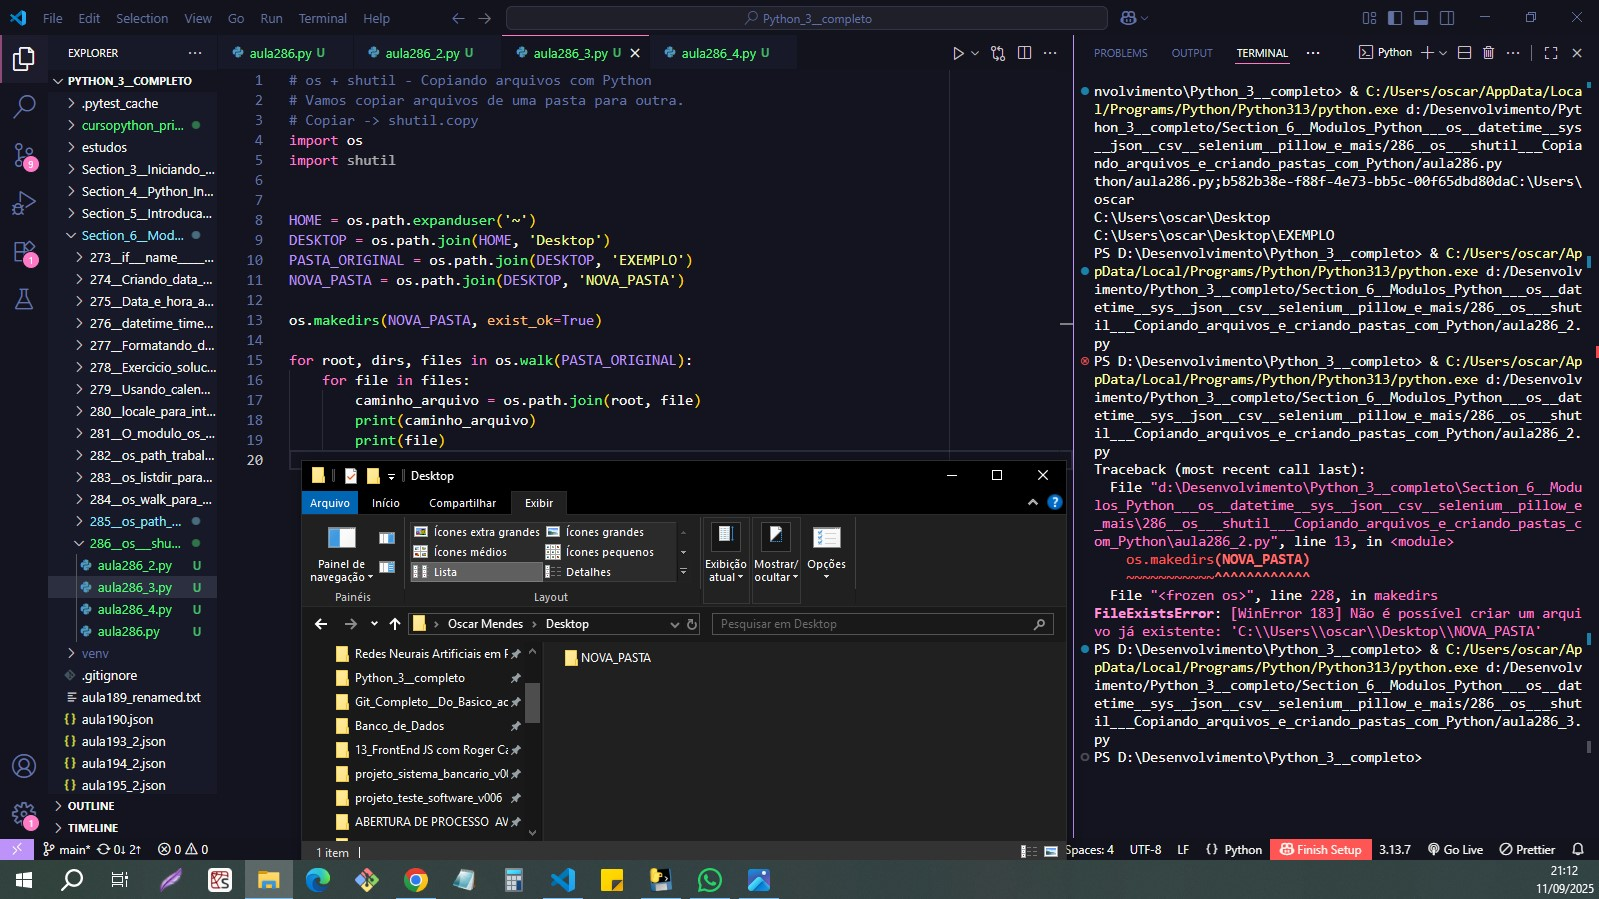
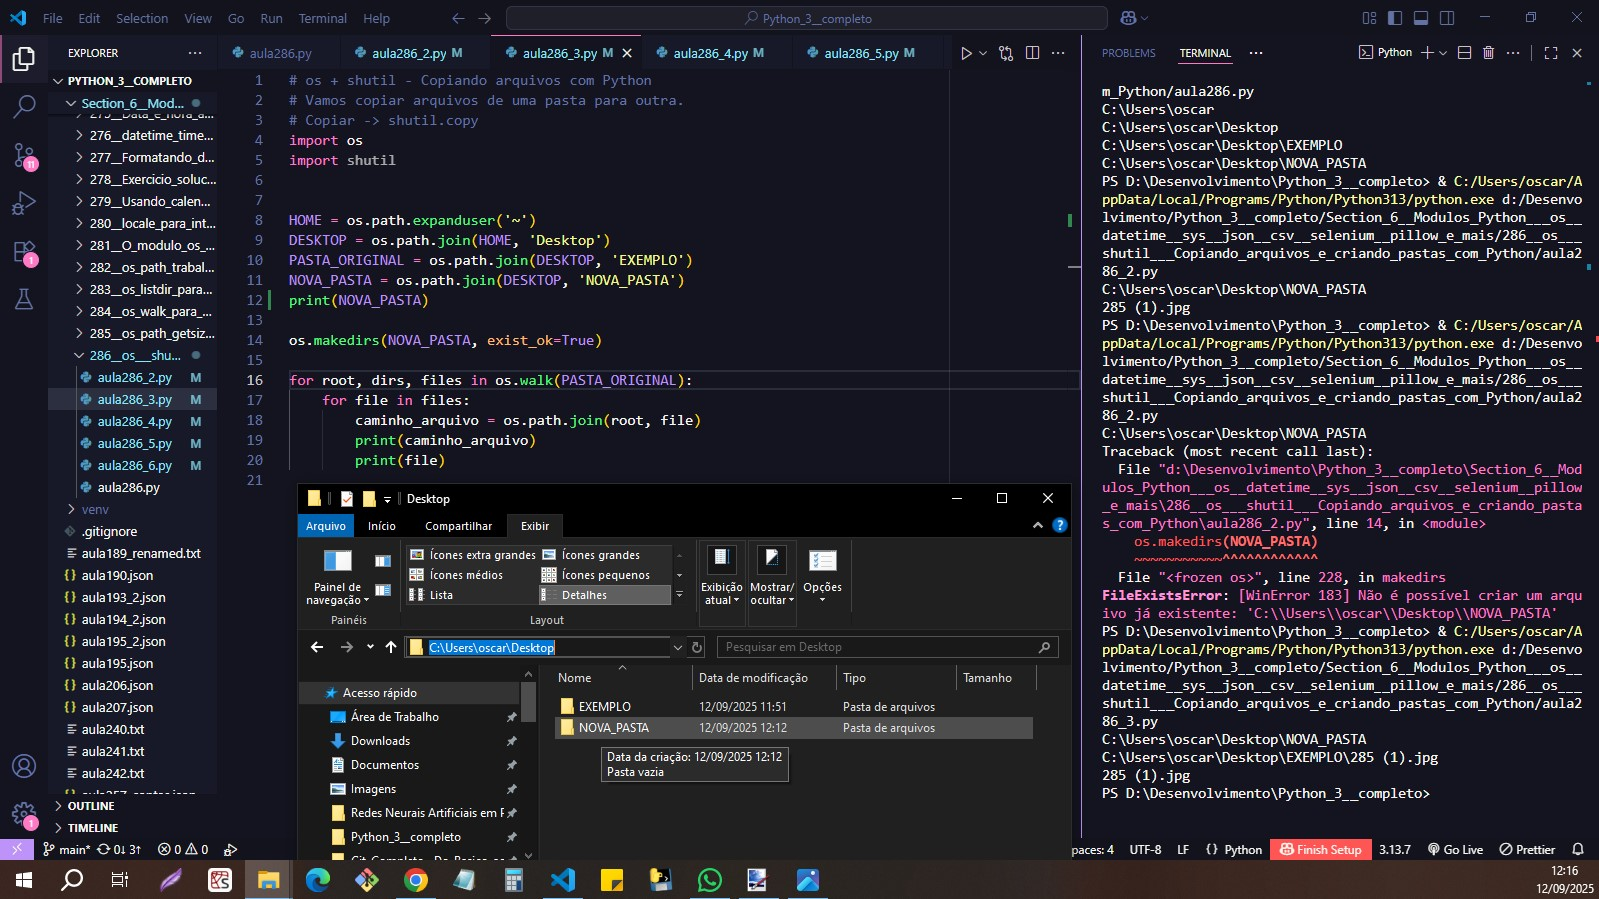
secao_6 290

diff --git a/Section_6__Modulos_Python___os__datetime__sys__json__csv__selenium__pillow_e_mais/288__O_que_e_JSON___JavaScript_Object_Notation/aula288.py b/Section_6__Modulos_Python___os__datetime__sys__json__csv__selenium__pillow_e_mais/288__O_que_e_JSON___JavaScript_Object_Notation/aula288.py
@@ -1,0 +1,24 @@
+# O que é JSON - JavaScript Object Notation
+# JSON - JavaScript Object Notation (extensão .json)
+# É uma estrutura de dados que permite a serialização
+# de objetos em texto simples para facilitar a transmissão de
+# dados através da rede, APIs web ou outros meios de comunicação.
+# O JSON suporta os seguintes tipos de dados:
+# Números: podem ser inteiros ou com ponto flutuante, como 42 ou 3.14
+# Strings: são cadeias de caracteres, como "Olá, mundo!" ou "12345"
+#   As strings devem ser envolvidas por aspas duplas
+# Booleanos: são os valores verdadeiro (true) ou falso (false)
+# Arrays: são listas ordenadas de valores, como [1, 2, 3] ou
+#   ["Oi", "Olá", "Bom dia"]
+# Objetos: são conjuntos de pares chave/valor -> {"nome": "João", "idade": 30}
+# null: é um valor especial que representa ausência de valor
+#
+# Ao converter de Python para JSON:
+# Python        JSON
+# dict          object
+# list, tuple   array
+# str           string
+# int, float    number
+# True          true
+# False         false
+# None          null

diff --git a/Section_6__Modulos_Python___os__datetime__sys__json__csv__selenium__pillow_e_mais/289__json_dumps_e_json_loads_com_strings___typing_TypedDict/aula289_2.py b/Section_6__Modulos_Python___os__datetime__sys__json__csv__selenium__pillow_e_mais/289__json_dumps_e_json_loads_com_strings___typing_TypedDict/aula289_2.py
@@ -1,0 +1,41 @@
+# json.dumps e json.loads com strings + typing.TypedDict
+# Ao converter de Python para JSON:
+# Python        JSON
+# dict          object
+# list, tuple   array
+# str           string
+# int, float    number
+# True          true
+# False         false
+# None          null
+import json
+from pprint import pprint
+from typing import TypedDict
+
+
+class Movie(TypedDict):
+    title: str
+    original_title: str
+    is_movie: bool
+    imdb_rating: float
+    year: int
+    characters: list[str]
+    budget: None | float
+
+string_json = '''
+{
+  "title": "O Senhor dos Anéis: A Sociedade do Anel",
+  "original_title": "The Lord of the Rings: The Fellowship of the Ring",
+  "is_movie": true,
+  "imdb_rating": 8.8,
+  "year": 2001,
+  "characters": ["Frodo", "Sam", "Gandalf", "Legolas", "Boromir"],
+  "budget": null
+}
+'''
+
+filme: Movie = json.loads(string_json)
+pprint(filme, width=40)
+print(filme['title'])
+print(filme['characters'][0])
+print(filme['year'] + 10)

diff --git a/Section_6__Modulos_Python___os__datetime__sys__json__csv__selenium__pillow_e_mais/289__json_dumps_e_json_loads_com_strings___typing_TypedDict/aula289_3.py b/Section_6__Modulos_Python___os__datetime__sys__json__csv__selenium__pillow_e_mais/289__json_dumps_e_json_loads_com_strings___typing_TypedDict/aula289_3.py
@@ -1,0 +1,40 @@
+# json.dumps e json.loads com strings + typing.TypedDict
+# Ao converter de Python para JSON:
+# Python        JSON
+# dict          object
+# list, tuple   array
+# str           string
+# int, float    number
+# True          true
+# False         false
+# None          null
+import json
+from typing import TypedDict
+
+
+class Movie(TypedDict):
+    title: str
+    original_title: str
+    is_movie: bool
+    imdb_rating: float
+    year: int
+    characters: list[str]
+    budget: None | float
+
+
+string_json = '''
+{
+  "title": "O Senhor dos Anéis: A Sociedade do Anel",
+  "original_title": "The Lord of the Rings: The Fellowship of the Ring",
+  "is_movie": true,
+  "imdb_rating": 8.8,
+  "year": 2001,
+  "characters": ["Frodo", "Sam", "Gandalf", "Legolas", "Boromir"],
+  "budget": null
+}
+'''
+
+filme: Movie = json.loads(string_json)
+
+json_string = json.dumps(filme, ensure_ascii=False, indent=2)
+print(json_string)

diff --git a/Section_6__Modulos_Python___os__datetime__sys__json__csv__selenium__pillow_e_mais/290__json_dump_e_json_load_com_arquivos/aula290.py b/Section_6__Modulos_Python___os__datetime__sys__json__csv__selenium__pillow_e_mais/290__json_dump_e_json_load_com_arquivos/aula290.py
@@ -1,0 +1,36 @@
+# json.dump e json.load com arquivos
+import json
+import os
+
+
+NOME_ARQUIVO = 'aula290.json'
+CAMINHO_ABSOLUTO_ARQUIVO = os.path.abspath(
+    os.path.join(
+        os.path.dirname(__file__),
+        NOME_ARQUIVO
+    )
+)
+print(__file__, '\n')
+print(os.path.dirname(__file__), '\n')
+print(os.path.join(
+        os.path.dirname(__file__),
+        NOME_ARQUIVO
+    ), '\n')
+
+filme = {
+    'title': 'O Senhor dos Anéis: A Sociedade do Anel',
+    'original_title': 'The Lord of the Rings: The Fellowship of the Ring',
+
+    'is_movie': True,
+    'imdb_rating': 8.8,
+    'year': 2001,
+    'characters': ['Frodo', 'Sam', 'Gandalf', 'Legolas', 'Boromir'],
+    'budget': None
+}
+
+with open(CAMINHO_ABSOLUTO_ARQUIVO, 'w') as arquivo:
+    json.dump(filme, arquivo, ensure_ascii=False, indent=2)
+
+with open(CAMINHO_ABSOLUTO_ARQUIVO, 'r') as arquivo:
+    filme_do_json = json.load(arquivo)
+    print(filme_do_json, '\n')

diff --git a/Section_6__Modulos_Python___os__datetime__sys__json__csv__selenium__pillow_e_mais/289__json_dumps_e_json_loads_com_strings___typing_TypedDict/aula289.py b/Section_6__Modulos_Python___os__datetime__sys__json__csv__selenium__pillow_e_mais/289__json_dumps_e_json_loads_com_strings___typing_TypedDict/aula289.py
@@ -1,0 +1,29 @@
+# json.dumps e json.loads com strings + typing.TypedDict
+# Ao converter de Python para JSON:
+# Python        JSON
+# dict          object
+# list, tuple   array
+# str           string
+# int, float    number
+# True          true
+# False         false
+# None          null
+import json
+from pprint import pprint
+
+
+string_json = '''
+{
+  "title": "O Senhor dos Anéis: A Sociedade do Anel",
+  "original_title": "The Lord of the Rings: The Fellowship of the Ring",
+  "is_movie": true,
+  "imdb_rating": 8.8,
+  "year": 2001,
+  "characters": ["Frodo", "Sam", "Gandalf", "Legolas", "Boromir"],
+  "budget": null
+}
+'''
+
+filme = json.loads(string_json)
+pprint(filme, width=40)
+print(filme['title'])

diff --git a/Section_6__Modulos_Python___os__datetime__sys__json__csv__selenium__pillow_e_mais/287__os___shutil___Apagando__copiando__movendo_e_renomeando_pastas_com_Python/aula287.py b/Section_6__Modulos_Python___os__datetime__sys__json__csv__selenium__pillow_e_mais/287__os___shutil___Apagando__copiando__movendo_e_renomeando_pastas_com_Python/aula287.py
@@ -1,0 +1,19 @@
+# os + shutil - Apagando, copiando, movendo e renomeando pastas com Python
+# Vamos copiar arquivos de uma pasta para outra.
+# Copiar -> shutil.copy
+# Copiar Árvore recursivamente -> shutil.copytree
+# Apagar Árvore recursivamente -> shutil.rmtree
+# Apagar arquivos -> os.unlink
+# Renomear/Mover -> shutil.move ou os.rename
+import os
+import shutil
+
+
+HOME = os.path.expanduser('~')
+DESKTOP = os.path.join(HOME, 'Desktop')
+PASTA_ORIGINAL = os.path.join(DESKTOP, 'EXEMPLO')
+NOVA_PASTA = os.path.join(DESKTOP, 'NOVA_PASTA')
+print(NOVA_PASTA)
+
+shutil.rmtree(NOVA_PASTA, ignore_errors=True)
+shutil.copytree(PASTA_ORIGINAL, NOVA_PASTA)

diff --git a/Section_6__Modulos_Python___os__datetime__sys__json__csv__selenium__pillow_e_mais/287__os___shutil___Apagando__copiando__movendo_e_renomeando_pastas_com_Python/aula287_2.py b/Section_6__Modulos_Python___os__datetime__sys__json__csv__selenium__pillow_e_mais/287__os___shutil___Apagando__copiando__movendo_e_renomeando_pastas_com_Python/aula287_2.py
@@ -1,0 +1,18 @@
+# os + shutil - Apagando, copiando, movendo e renomeando pastas com Python
+# Vamos copiar arquivos de uma pasta para outra.
+# Copiar -> shutil.copy
+# Copiar Árvore recursivamente -> shutil.copytree
+# Apagar Árvore recursivamente -> shutil.rmtree
+# Apagar arquivos -> os.unlink
+# Renomear/Mover -> shutil.move ou os.rename
+import os
+import shutil
+
+
+HOME = os.path.expanduser('~')
+DESKTOP = os.path.join(HOME, 'Desktop')
+PASTA_ORIGINAL = os.path.join(DESKTOP, 'EXEMPLO')
+NOVA_PASTA = os.path.join(DESKTOP, 'NOVA_PASTA')
+print(NOVA_PASTA)
+
+shutil.move(NOVA_PASTA, NOVA_PASTA + '_EITA')

diff --git a/Section_6__Modulos_Python___os__datetime__sys__json__csv__selenium__pillow_e_mais/286__os___shutil___Copiando_arquivos_e_criando_pastas_com_Python/aula286_3.py b/Section_6__Modulos_Python___os__datetime__sys__json__csv__selenium__pillow_e_mais/286__os___shutil___Copiando_arquivos_e_criando_pastas_com_Python/aula286_3.py
@@ -9,6 +9,7 @@ HOME = os.path.expanduser('~')
 DESKTOP = os.path.join(HOME, 'Desktop')
 PASTA_ORIGINAL = os.path.join(DESKTOP, 'EXEMPLO')
 NOVA_PASTA = os.path.join(DESKTOP, 'NOVA_PASTA')
+print(NOVA_PASTA)
 
 os.makedirs(NOVA_PASTA, exist_ok=True)
 

diff --git a/Section_6__Modulos_Python___os__datetime__sys__json__csv__selenium__pillow_e_mais/286__os___shutil___Copiando_arquivos_e_criando_pastas_com_Python/aula286_4.py b/Section_6__Modulos_Python___os__datetime__sys__json__csv__selenium__pillow_e_mais/286__os___shutil___Copiando_arquivos_e_criando_pastas_com_Python/aula286_4.py
@@ -9,6 +9,7 @@ HOME = os.path.expanduser('~')
 DESKTOP = os.path.join(HOME, 'Desktop')
 PASTA_ORIGINAL = os.path.join(DESKTOP, 'EXEMPLO')
 NOVA_PASTA = os.path.join(DESKTOP, 'NOVA_PASTA')
+print(NOVA_PASTA)
 
 os.makedirs(NOVA_PASTA, exist_ok=True)
 

diff --git a/Section_6__Modulos_Python___os__datetime__sys__json__csv__selenium__pillow_e_mais/286__os___shutil___Copiando_arquivos_e_criando_pastas_com_Python/aula286_5.py b/Section_6__Modulos_Python___os__datetime__sys__json__csv__selenium__pillow_e_mais/286__os___shutil___Copiando_arquivos_e_criando_pastas_com_Python/aula286_5.py
@@ -9,6 +9,7 @@ HOME = os.path.expanduser('~')
 DESKTOP = os.path.join(HOME, 'Desktop')
 PASTA_ORIGINAL = os.path.join(DESKTOP, 'EXEMPLO')
 NOVA_PASTA = os.path.join(DESKTOP, 'NOVA_PASTA')
+print(NOVA_PASTA)
 
 os.makedirs(NOVA_PASTA, exist_ok=True)
 

diff --git a/Section_6__Modulos_Python___os__datetime__sys__json__csv__selenium__pillow_e_mais/286__os___shutil___Copiando_arquivos_e_criando_pastas_com_Python/aula286_6.py b/Section_6__Modulos_Python___os__datetime__sys__json__csv__selenium__pillow_e_mais/286__os___shutil___Copiando_arquivos_e_criando_pastas_com_Python/aula286_6.py
@@ -9,6 +9,7 @@ HOME = os.path.expanduser('~')
 DESKTOP = os.path.join(HOME, 'Desktop')
 PASTA_ORIGINAL = os.path.join(DESKTOP, 'EXEMPLO')
 NOVA_PASTA = os.path.join(DESKTOP, 'NOVA_PASTA')
+print(NOVA_PASTA)
 
 os.makedirs(NOVA_PASTA, exist_ok=True)
 

diff --git a/Section_6__Modulos_Python___os__datetime__sys__json__csv__selenium__pillow_e_mais/286__os___shutil___Copiando_arquivos_e_criando_pastas_com_Python/aula286_2.py b/Section_6__Modulos_Python___os__datetime__sys__json__csv__selenium__pillow_e_mais/286__os___shutil___Copiando_arquivos_e_criando_pastas_com_Python/aula286_2.py
@@ -9,6 +9,7 @@ HOME = os.path.expanduser('~')
 DESKTOP = os.path.join(HOME, 'Desktop')
 PASTA_ORIGINAL = os.path.join(DESKTOP, 'EXEMPLO')
 NOVA_PASTA = os.path.join(DESKTOP, 'NOVA_PASTA')
+print(NOVA_PASTA)
 
 os.makedirs(NOVA_PASTA)
 
